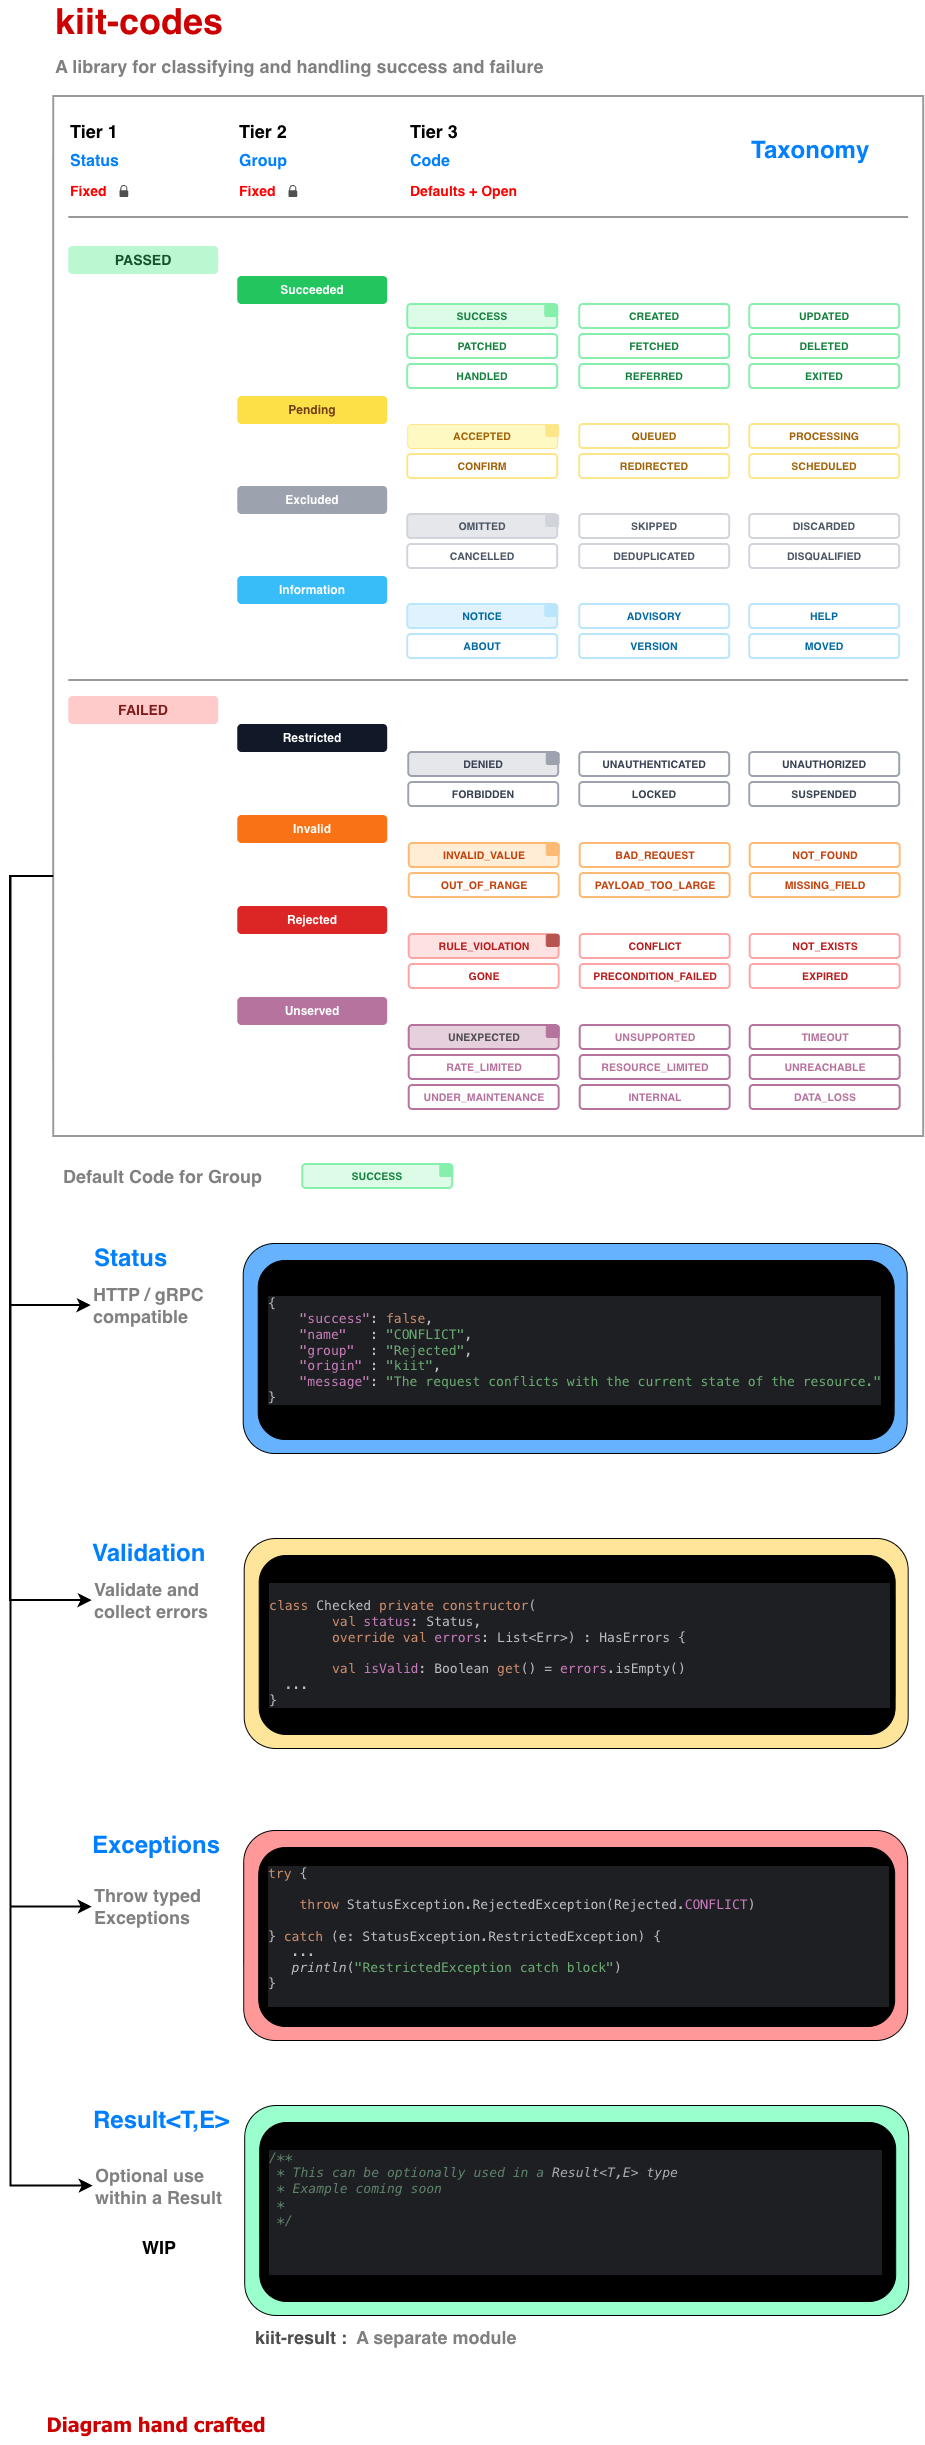
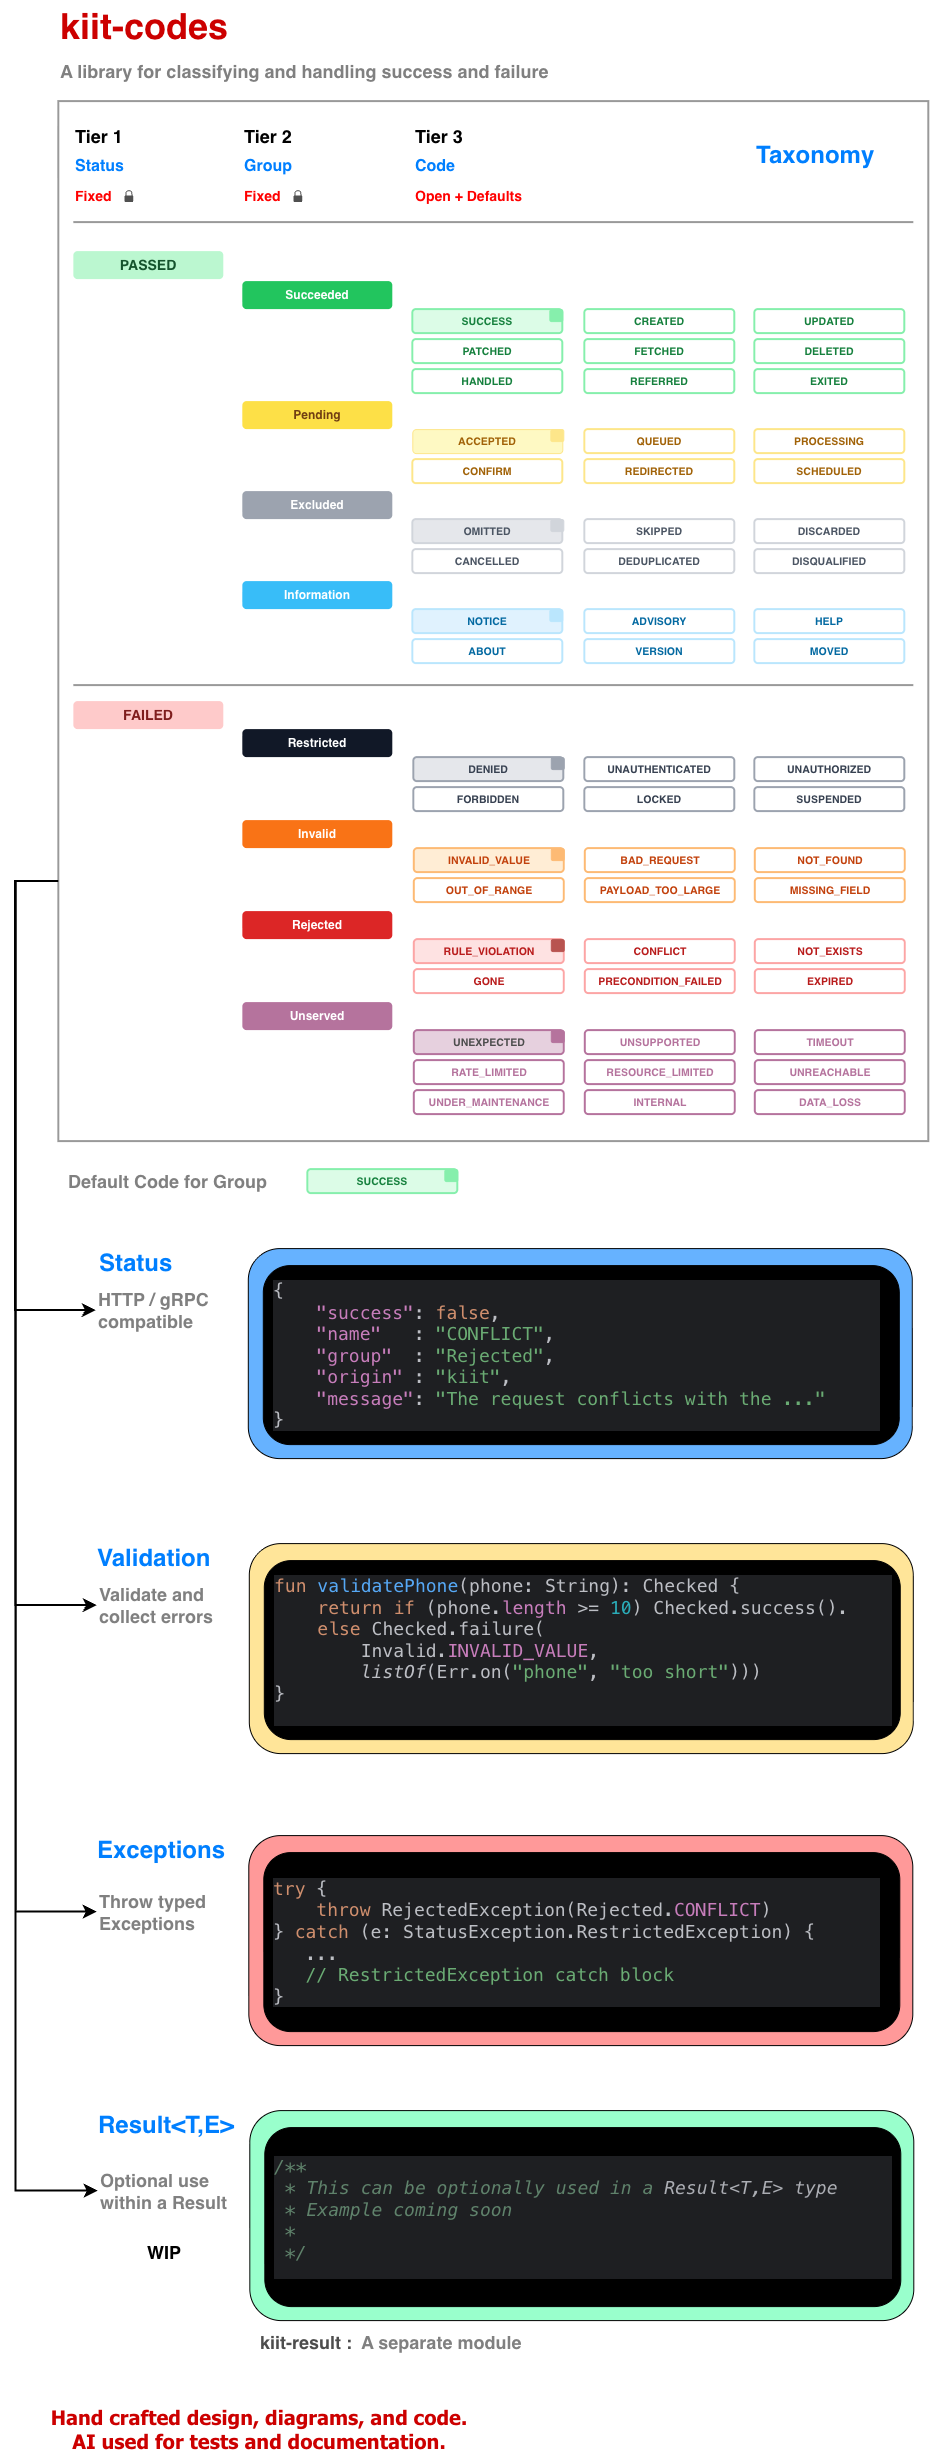
updated: tests + diagrams

diff --git a/kiit-codes/src/commonTest/kotlin/kiit/codes/CheckedTest.kt b/kiit-codes/src/commonTest/kotlin/kiit/codes/CheckedTest.kt
@@ -11,6 +11,34 @@ import kotlin.test.assertTrue
 // =================================================================================================
 
 class CheckedTest {
+    fun validatePhone(phone: String): Checked {
+        return if (phone.length >= 10) Checked.success()
+        else Checked.failure(
+            Invalid.INVALID_VALUE,
+            listOf(Err.on("phone", "too short"))
+        )
+    }
+
+    // -------------------------------------------------------------------------
+    // validatePhone — a realistic Checked-returning validator, also exercised via collect below
+    // -------------------------------------------------------------------------
+
+    @Test
+    fun validatePhoneSucceedsForLongEnoughNumber() {
+        val checked = validatePhone("5551234567")
+        assertTrue(checked.isValid)
+        assertSame(Succeeded.SUCCESS, checked.status)
+    }
+
+    @Test
+    fun validatePhoneFailsForTooShortNumber() {
+        val checked = validatePhone("12345")
+        assertTrue(!checked.isValid)
+        assertEquals(Invalid.INVALID_VALUE, checked.status)
+        assertEquals(1, checked.errors.size)
+        assertEquals("too short", checked.errors.single().msg)
+    }
+
     @Test
     fun successDefaultsToCodesSuccess() {
         val checked = Checked.success()
@@ -91,6 +119,21 @@ class CheckedTest {
             )
         assertEquals(Invalid.INVALID_VALUE, result.status)
         assertEquals(firstErrors + secondErrors, result.errors)
+    }
+
+    @Test
+    fun collectSucceedsWhenValidatePhonePassesAlongsideOtherChecks() {
+        val result = collect(Checked.success(), validatePhone("5551234567"))
+        assertSame(Succeeded.SUCCESS, result.status)
+        assertTrue(result.errors.isEmpty())
+    }
+
+    @Test
+    fun collectPoolsValidatePhoneErrorsWithOtherFailures() {
+        val emailErrors = listOf(Err.on("email", "must contain @"))
+        val result = collect(Checked.failure(Invalid.INVALID_VALUE, emailErrors), validatePhone("123"))
+        assertEquals(Invalid.INVALID_VALUE, result.status)
+        assertEquals(emailErrors + validatePhone("123").errors, result.errors)
     }
 
     @Test
